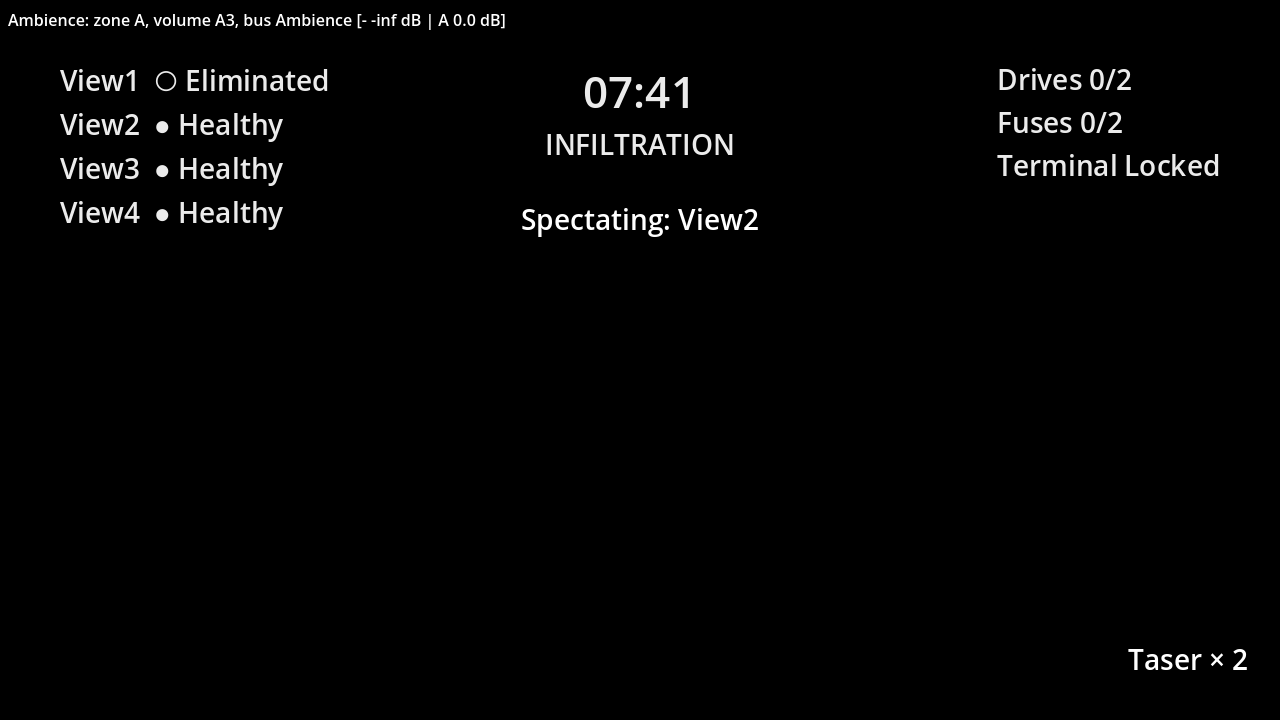
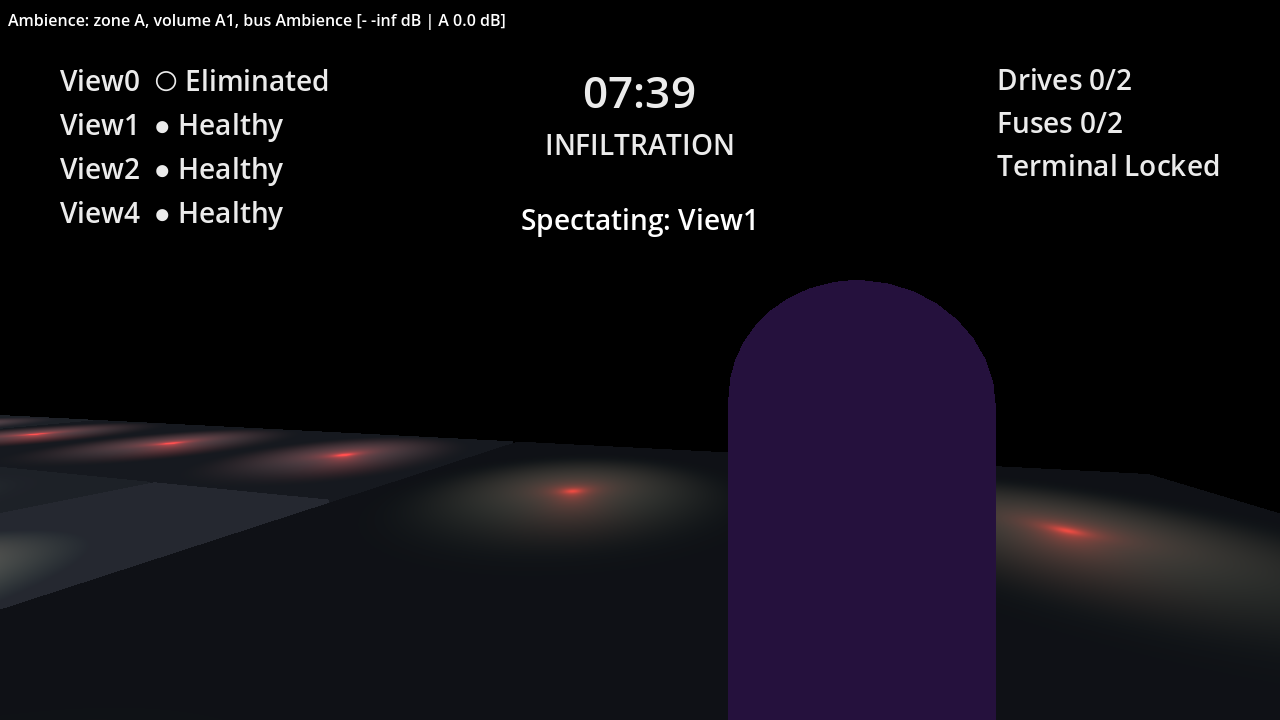
fix: BUG-0005 spectator camera follows the watched survivor, no owner prediction while spectating; BUG-0006 TaserCount hides while spectating

diff --git a/production/qa/evidence/own-state-and-hud-states-evidence.md b/production/qa/evidence/own-state-and-hud-states-evidence.md
@@ -24,17 +24,14 @@ bleed-out, and after the 60 s bleed-out the server makes it a spectator. The hos
 | `own-state-and-hud-states/hidden.png` | Hidden (`--bot=ownstate` step 0) | Crosshair hidden, prompt "Hold E  Leave" only, no vignette, roster/clock/checklist stay. ("Released" under it is HUD-3's cause label for the hide hold the bot let go.) | `state hidden prompt 'Hold E  Leave' crosshair false` |
 | `own-state-and-hud-states/seized.png` | Seized (step 2) | Tight dark edges and the word "Seized"; no prompt or ring; crosshair stays (state table: Seized hides prompt and ring only). The red shape is the shapeshifter's body in the face. | `word 'Seized' vignette 0.79 z4 ''` |
 | `own-state-and-hud-states/downed.png` | Downed (step 3) | Wide grey edges, "Downed", own bleed-out "60 s" in the prompt's place, crosshair hidden, roster "✚ Downed" and checklist stay | `word 'Downed' bleed '60 s' z4 '' crosshair false` |
-| `own-state-and-hud-states/spectating.png` | Spectating (step 4) | "Spectating: View2" under the clock; roster "○ Eliminated", clock, objectives; no prompt, ring or crosshair; `can_act` false (no ping, no wheel) | `'Spectating: View2' watched 2 can_act false z4 ''` |
+| `own-state-and-hud-states/spectating.png` | Spectating (step 4) | Recaptured 2026-10-15 after the BUG-0005/0006 fix (port 30892): the watched survivor's 3D view from its eye, its neighbour's body in front; "Spectating: View1" under the clock; roster "○ Eliminated", clock, objectives; no prompt, ring, crosshair or kit (H11 hidden); `can_act` false | `'Spectating: View1' watched 1 can_act false z4 ''`; `SPECTATOR camera (5.19, 1.60, 31.71) body (5.19, 0.00, 31.71) entry (5.19, 0.00, 31.71) unacked 0 taser false` |
 
 ## Known defects seen in the capture
 
-- **The spectator's 3D view is black.** RoundClient has no spectator camera: OwnerPredictor replays the
-  spectator's never-acknowledged inputs on top of the watched survivor's own entry, so the body falls away
-  below the map (measured: y about -18000 m after 10 s). The bot tried to pin the head on the entry for the
-  shot without success. The HUD under test draws correctly over it. A client spectator view is needed
-  (hud.md "spectator spec: open gap").
-- **Kit (H11) still shows while spectating** ("Taser × 2"): the spectator's stream carries the watched
-  survivor's CHARGES. The state table says no kit; TaserCount does not read HudModel yet.
+- Fixed: the black spectator view (BUG-0005) and the kit while spectating (BUG-0006); `spectating.png` was
+  replaced by the recapture. Part of the original black view was the harness: the walk-away step walked the
+  other survivors off the greybox floors for 10 s, so the watched survivor's server body fell (entry y -17400).
+  `--bot=ownstate` now stops them just past `camp_slow_radius_m`.
 - Vignette look is a PLACEHOLDER (edge bands, not P11's desaturating shader); the art pass replaces it.
 
 ## Not shown

diff --git a/production/qa/bugs/BUG-0005.md b/production/qa/bugs/BUG-0005.md
@@ -5,7 +5,7 @@
 **ID**: BUG-0005
 **Severity**: S2-High
 **Priority**: P2-Fix next sprint
-**Status**: Open
+**Status**: Fixed
 **Reported**: 2026-10-15
 **Reporter**: HUD-4 agent, while capturing the spectating screenshot (hud-results story 004)
 
@@ -42,3 +42,18 @@
 - Stop owner prediction while spectating.
 - Put the camera on the watched survivor's interpolated body.
 - Hide the spectator's own body.
+
+## Fix
+- Commit `0b05264` (wt-bug5): `OwnerPredictor.spectating()` is true when the own entry's id is not this player's.
+  While spectating it places the body on the entry as sent and drops unacknowledged frames, and `predict()` neither steps nor sends.
+  `RoundClient` skips its input handling.
+  The new `SpectatorCamera` (`src/feature/match_flow/spectator_camera.gd`) puts the camera head on the watched survivor's pose at eye height.
+  It interpolates that pose `interp_delay_ms` behind, like a remote body.
+  A switch of the watched survivor cuts instead of sweeping across the map.
+  The view is level because the snapshot carries no pitch (inference: a pitch field would settle it).
+- The own body has no mesh (`TestMoveStep.make_body`), so there was nothing to hide.
+- Harness: part of the black capture was `--bot=ownstate` walking the other survivors off the greybox floors.
+  The watched survivor's server body itself fell (entry y -17400).
+  The bot now stops them just past `camp_slow_radius_m`, and the head-pinning workaround is gone.
+- Test: `tests/unit/match-flow/spectator_camera_test.gd` (7 cases).
+- Evidence: `production/qa/evidence/own-state-and-hud-states/spectating.png`, recaptured.

diff --git a/production/qa/bugs/BUG-0006.md b/production/qa/bugs/BUG-0006.md
@@ -5,7 +5,7 @@
 **ID**: BUG-0006
 **Severity**: S4-Low
 **Priority**: P3-Fix when convenient
-**Status**: Open
+**Status**: Fixed
 **Reported**: 2026-10-15
 **Reporter**: HUD-4 agent (hud-results story 004)
 
@@ -31,3 +31,9 @@
 
 ## Fix direction
 - `TaserCount` reads `HudModel`, as ADR-0014 §6 requires, and hides while `spectating()`.
+
+## Fix
+- Commit `0b05264` (wt-bug5): `HudModel` takes `EventBatch.CHARGES` (`charges()`, `on_charges`).
+  `TaserCount.new(model)` refreshes on `own_state_changed` and hides while `spectating()`.
+- Test: `tests/unit/hud-results/edge_cues_items_progress_test.gd`, `test_taser_count_hides_while_spectating`.
+  The charges test is reworked to go through `HudModel`.
